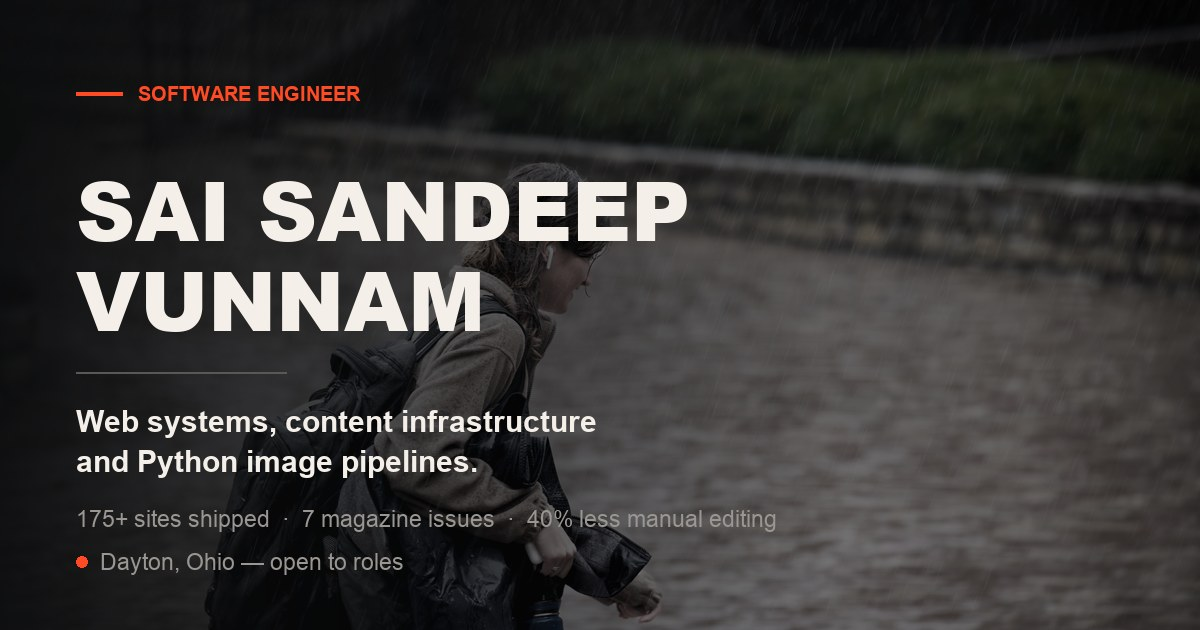
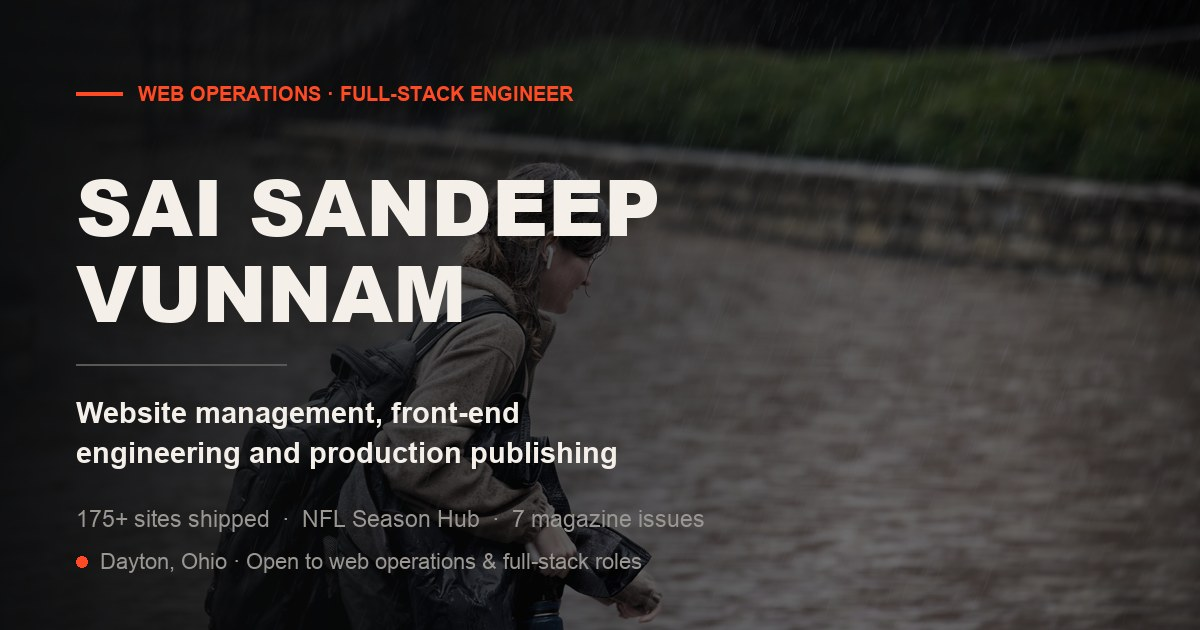
Pre-flight fixes found by a full-page audit
Content
  - The page said "Six years" in Experience and "Five years" in the hero.
    Jan 2020 to May 2026 is six.
  - 273,000 and 273,325 both appeared for the same figure; the rounded one
    now reads as a rounding.

Social preview
  - The card still said "Software Engineer" and listed the old proof points,
    left over from before the repositioning. It is now generated from
    content/site.json, so it cannot drift out of step again.

Accessibility
  - The case-study diagram caption used --fg-faint on --surface, which
    measures 4.37:1 and is under AA for text that small. Moved to --fg-dim
    at 6.34:1.

Mobile
  - The availability line was held on one line by white-space: nowrap and
    overflowed a 320px viewport. Only the location is held now.
  - Buttons are clamped to their container, and the hero email button may
    wrap, which it needs to at 320px.

Housekeeping
  - Removed .display, .prose, .serif and .section__head--compact, all dead
    since the sections that used them were taken out.

diff --git a/static/css/hero.css b/static/css/hero.css
@@ -126,7 +126,7 @@
 
 /* The status wraps to two lines on a phone. Pin the dot to the first line
    rather than letting it float in the vertical centre of the block. */
-.hero__status > span:not(.hero__status-dot) { white-space: nowrap; }
+.hero__status > span:not(.hero__status-dot):not(.hero__status-open) { white-space: nowrap; }
 
 .hero__status-dot {
   width: 6px;
@@ -265,7 +265,12 @@
   .hero__foot { flex-direction: column; align-items: flex-start; }
   .hero__actions { width: 100%; }
   .hero__actions .btn { flex: 1 1 auto; justify-content: center; }
-  .hero__actions .btn--ghost { flex-basis: 100%; justify-content: flex-start; }
+  .hero__actions .btn--ghost {
+    flex-basis: 100%;
+    justify-content: flex-start;
+    white-space: normal;          /* the email address is 30 characters */
+    overflow-wrap: anywhere;
+  }
   .hero__scrim {
     background:
       linear-gradient(to top, var(--bg) 14%, color-mix(in srgb, var(--bg) 78%, transparent) 55%, color-mix(in srgb, var(--bg) 46%, transparent) 100%),

diff --git a/static/css/type.css b/static/css/type.css
@@ -7,7 +7,6 @@
    italic appears exactly twice, as punctuation rather than as a voice.
    ========================================================================== */
 
-.display,
 .hero__name,
 .contact__headline {
   font-family: var(--font-sans);
@@ -91,17 +90,4 @@
 }
 
 .section__intro--wide { max-width: var(--measure-wide); }
-
-/* --- Prose --------------------------------------------------------------- */
-.prose p + p { margin-top: var(--s-5); }
-.prose { max-width: var(--measure); text-wrap: pretty; }
-
-/* --- The serif accent ---------------------------------------------------- */
-.serif {
-  font-family: var(--font-serif);
-  font-style: italic;
-  font-weight: 400;
-  letter-spacing: 0;
-  text-transform: none;
-}
 

diff --git a/static/css/layout.css b/static/css/layout.css
@@ -32,7 +32,6 @@
 /* An intro paragraph belongs to the heading above it, not to the content
    below. Close the gap when one follows. */
 .section__head:has(+ .section__intro) { margin-bottom: var(--s-5); }
-.section__head--compact { margin-bottom: var(--s-7); }
 
 /* --- Media ---------------------------------------------------------------
    Aspect ratio is always declared and width/height always emitted, so no
@@ -82,6 +81,7 @@
   font-weight: 500;
   letter-spacing: 0.01em;
   white-space: nowrap;
+  max-width: 100%;
   transition:
     border-color var(--dur-1) var(--ease),
     background-color var(--dur-1) var(--ease),

diff --git a/static/css/case-study.css b/static/css/case-study.css
@@ -195,11 +195,13 @@
 
 .diagram .dg { width: 100%; min-width: 40rem; height: auto; }
 
+/* --fg-faint measures 4.37:1 against --surface, which is under AA for text
+   this small. --fg-dim is 6.34:1 on the same ground. */
 .diagram__caption {
   margin-top: var(--s-4);
   padding-top: var(--s-3);
   border-top: 1px solid var(--rule);
-  color: var(--fg-faint);
+  color: var(--fg-dim);
 }
 
 /* --- Next ----------------------------------------------------------------- */

diff --git a/optimize_images.py b/optimize_images.py
@@ -194,8 +194,15 @@ def build_icons() -> None:
 
 
 def build_og_card(hero_src: str) -> None:
-    """1200x630 social preview: the hero photograph, the name, the claim."""
+    """1200x630 social preview, generated from content/site.json.
+
+    Everything on it is read from the same file the site reads, so the card
+    cannot drift out of step with the positioning the way a hardcoded one does.
+    """
     from PIL import Image, ImageDraw, ImageEnhance
+
+    site = json.loads((ROOT / "content" / "site.json").read_text())
+    meta = site["meta"]
 
     W, H = 1200, 630
     card = Image.new("RGB", (W, H), BG)
@@ -211,43 +218,53 @@ def build_og_card(hero_src: str) -> None:
         left = (photo.width - W) // 2
         top = (photo.height - H) // 2
         photo = photo.crop((left, top, left + W, top + H))
-        photo = ImageEnhance.Color(photo).enhance(0.35)
-        photo = ImageEnhance.Brightness(photo).enhance(0.52)
+        photo = ImageEnhance.Color(photo).enhance(0.45)
+        photo = ImageEnhance.Brightness(photo).enhance(0.5)
         card.paste(photo, (0, 0))
 
-        # Left-to-right scrim so the type always has something to sit on.
         scrim = Image.new("L", (W, 1))
         for x in range(W):
-            scrim.putpixel((x, 0), int(235 * max(0.0, 1 - (x / W) * 1.45)))
-        scrim = scrim.resize((W, H))
-        card = Image.composite(Image.new("RGB", (W, H), BG), card, scrim)
+            scrim.putpixel((x, 0), int(238 * max(0.0, 1 - (x / W) * 1.4)))
+        card = Image.composite(Image.new("RGB", (W, H), BG), card, scrim.resize((W, H)))
 
     d = ImageDraw.Draw(card)
     x = 76
 
     d.rectangle([x, 92, x + 46, 95], fill=ACCENT)
-    d.text((x + 62, 82), "SOFTWARE ENGINEER", font=_font("bold", 20), fill=ACCENT)
+    d.text((x + 62, 82), site["role"].upper(), font=_font("bold", 20), fill=ACCENT)
 
-    d.text((x, 150), "SAI SANDEEP", font=_font("display", 82), fill=FG)
-    d.text((x, 240), "VUNNAM", font=_font("display", 82), fill=FG)
+    parts = site["name"].rsplit(" ", 1)
+    d.text((x, 150), parts[0].upper(), font=_font("display", 78), fill=FG)
+    d.text((x, 236), parts[-1].upper(), font=_font("display", 78), fill=FG)
 
-    d.rectangle([x, 372, x + 210, 373], fill=(90, 88, 85))
+    d.rectangle([x, 364, x + 210, 365], fill=(90, 88, 85))
 
-    d.text((x, 404), "Web systems, content infrastructure", font=_font("bold", 30), fill=FG)
-    d.text((x, 444), "and Python image pipelines.", font=_font("bold", 30), fill=FG)
+    for i, line in enumerate(_wrap_text(site["discipline"], 40)[:2]):
+        d.text((x, 396 + i * 40), line, font=_font("bold", 29), fill=FG)
 
-    d.text(
-        (x, 506),
-        "175+ sites shipped  ·  7 magazine issues  ·  40% less manual editing",
-        font=_font("regular", 23),
-        fill=DIM,
-    )
+    d.text((x, 506), meta.get("ogProof", ""), font=_font("regular", 23), fill=DIM)
 
     d.ellipse([x, 556, x + 11, 567], fill=ACCENT)
-    d.text((x + 24, 549), "Dayton, Ohio — open to roles", font=_font("regular", 23), fill=DIM)
+    d.text((x + 24, 549), f"{site['location']} · {site['status']}",
+           font=_font("regular", 22), fill=DIM)
 
     card.save(OUT / "og-image.jpg", "JPEG", quality=88, optimize=True, progressive=True)
     print(f"  og-image.jpg                   {(OUT / 'og-image.jpg').stat().st_size // 1024:>5} KB")
+
+
+def _wrap_text(text: str, width: int) -> list[str]:
+    words, lines, cur = text.split(), [], ""
+    for w in words:
+        trial = f"{cur} {w}".strip()
+        if len(trial) <= width:
+            cur = trial
+        else:
+            lines.append(cur)
+            cur = w
+    if cur:
+        lines.append(cur)
+    return lines
+
 
 if __name__ == "__main__":
     raise SystemExit(main())
